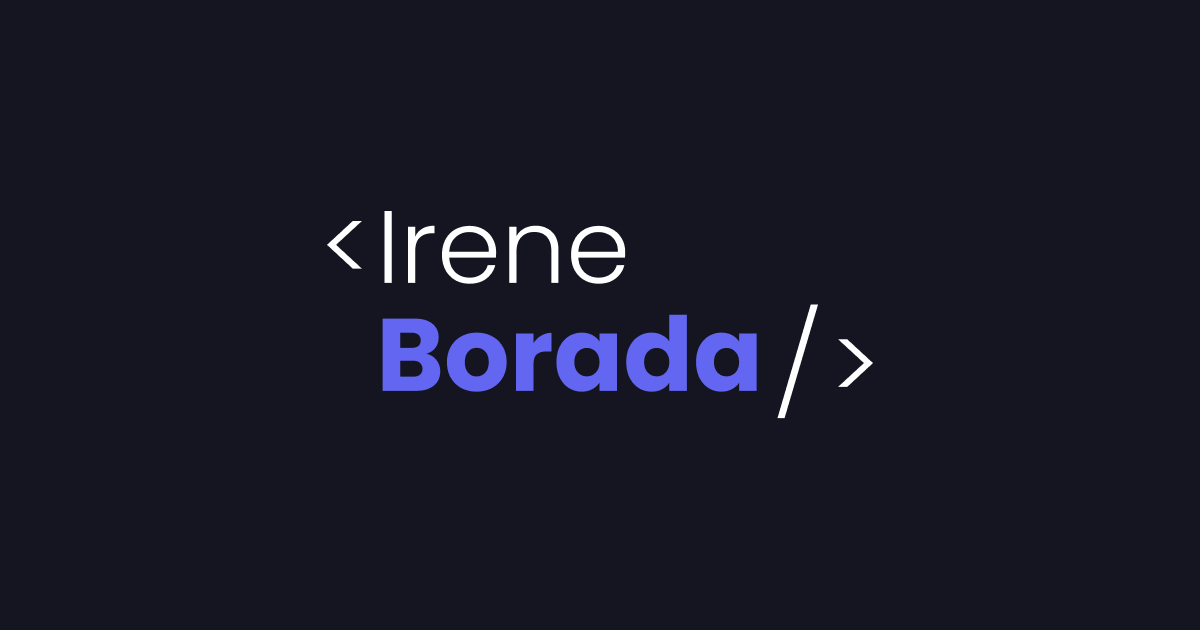
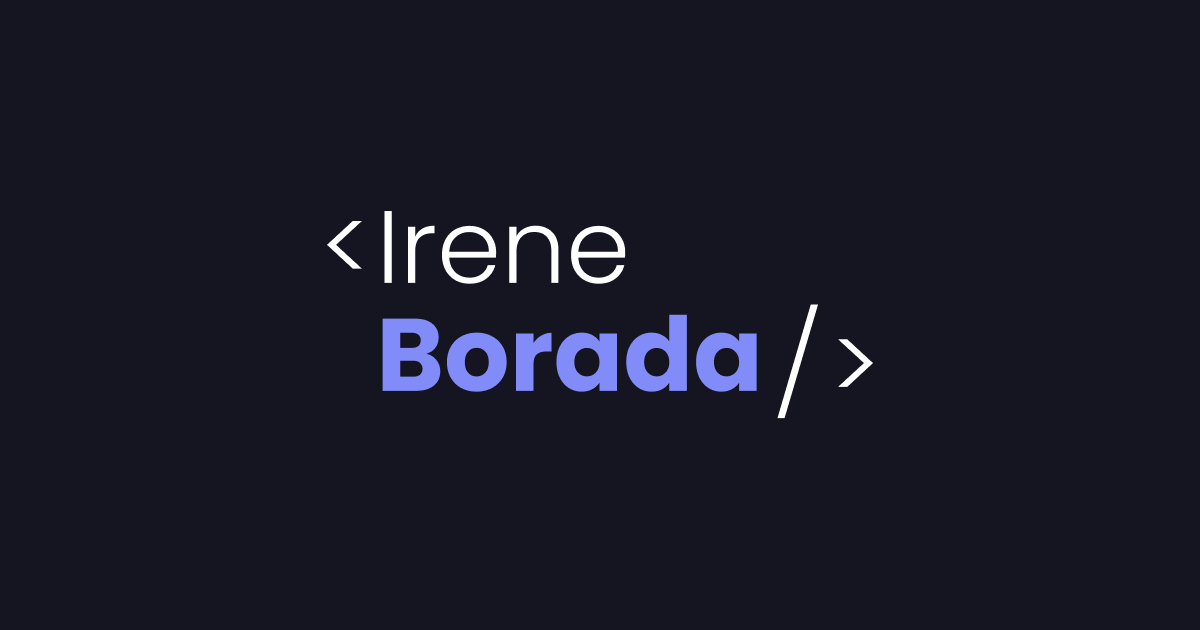
Changes main colors & glare

Changed region(s): [[0.3083, 0.4825, 0.6475, 0.6333]]

diff --git a/app/layout.tsx b/app/layout.tsx
@@ -48,10 +48,10 @@ export default function RootLayout({
                   {children}
                   <div className="fixed bottom-0 right-0 z-[-1]">
                     <Image
-                      src="/images/blur.png"
-                      alt="Glow"
-                      width={1916}
-                      height={1082}
+                      src="/images/glare.png"
+                      alt="Glare"
+                      width={1320}
+                      height={865}
                     />
                   </div>
                   <Social />

diff --git a/components/Studies/Study.tsx b/components/Studies/Study.tsx
@@ -39,7 +39,7 @@ const Study = ({ date, title, text, image, even }: StudyItem) => {
       } ${show ? "translate-x-0" : translateX}`}
     >
       <div className="relative h-full py-10">
-        <div className="opacity-5 absolute top-0 right-0 w-1/2">
+        <div className="opacity-10 absolute top-0 right-0 w-1/2">
           <Image
             src={image}
             alt={title}

diff --git a/tailwind.config.ts b/tailwind.config.ts
@@ -14,8 +14,8 @@ const config: Config = {
       xl: "1600px",
     },
     colors: {
-      dark: "#141521",
-      accent: "#6366f1",
+      dark: "#0f172a",
+      accent: "#818cf8",
       secondary: "#ff0a78",
       white: "#FFFFFF",
       black: "#000000",

diff --git a/constants/index.tsx b/constants/index.tsx
@@ -1,3 +1,3 @@
-export const accentColor = "#6366f1";
+export const accentColor = "#818cf8";
 export const darkColor = "rgb(20, 21, 33)";
 export const secondaryColor = "#ff0a78";
